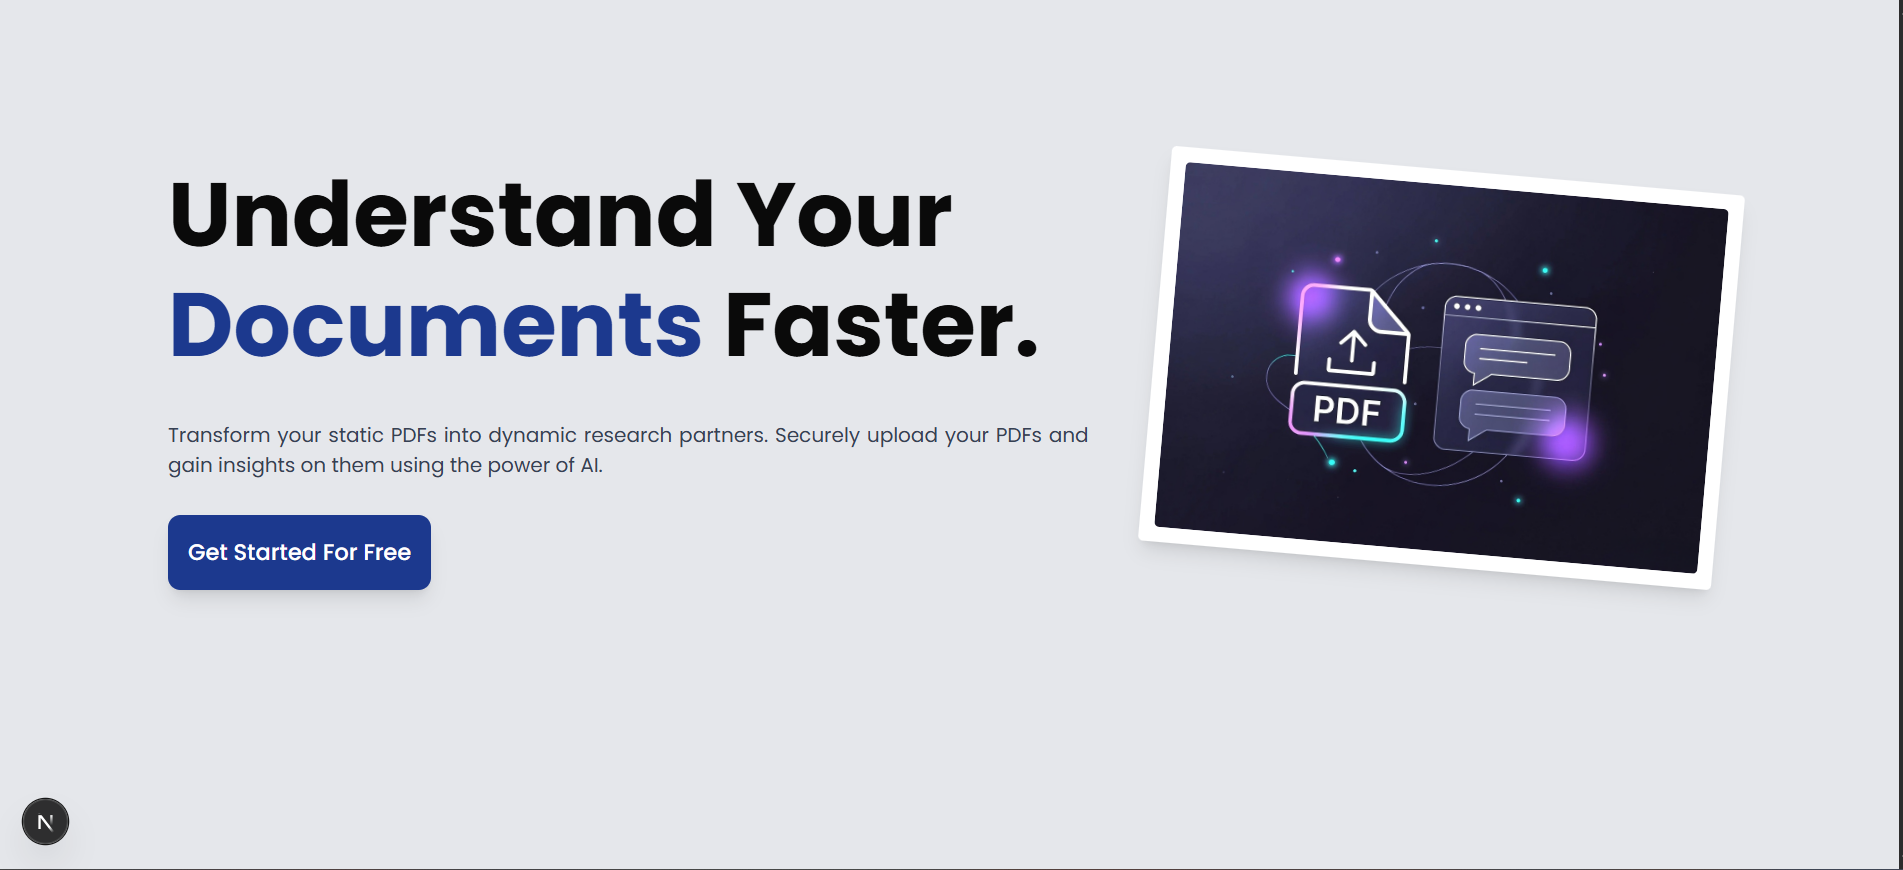
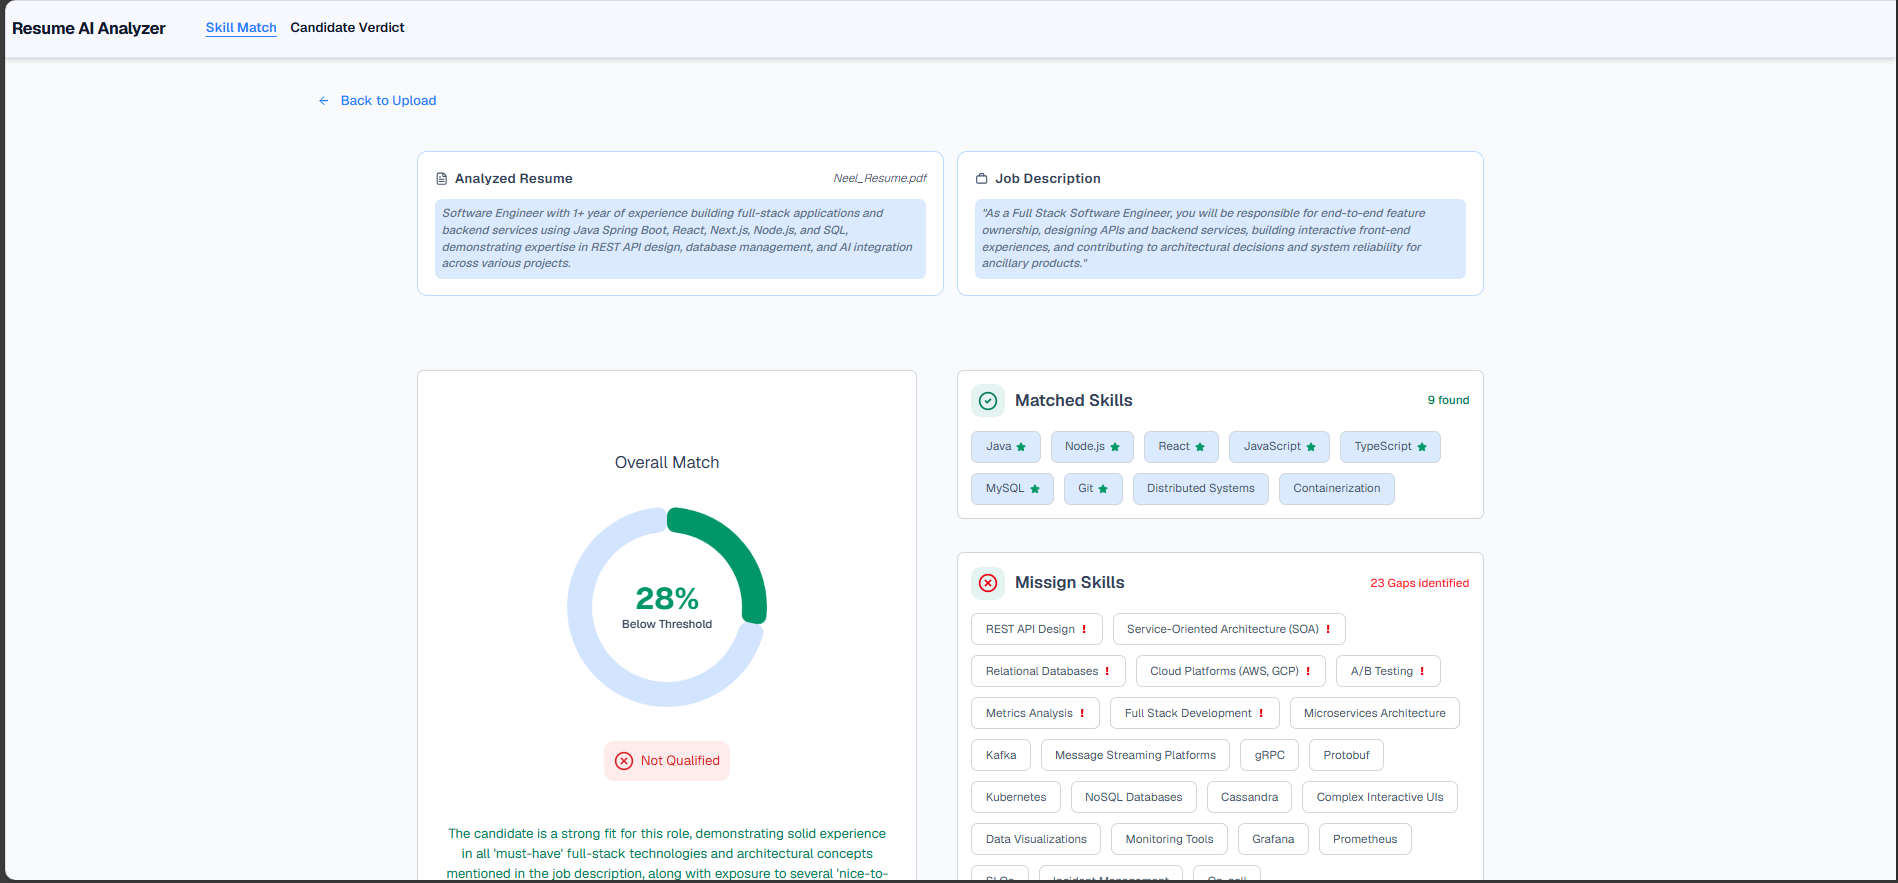
update :memo:

diff --git a/src/data/dataMaps.ts b/src/data/dataMaps.ts
@@ -16,15 +16,15 @@ export const projects = [
   {
     id: 2,
     image: "/images/project2.png",
-    heading: "AI PDF Chat App (RAG-based Document Assistant)",
+    heading: "AI Resume Analyzer (RAG-based Document Assistant)",
     description: [
-      "Built an AI-powered PDF analysis tool enabling users to upload documents and interact via natural language queries.",
-      "Implemented RAG using Gemini embeddings and ChromaDB for fast, context-aware responses.",
-      "Designed a real-time chat interface with typing animation, auto-scroll, and session-based context isolation for multi-user support.",
-      "Optimized performance using batched embedding calls, reducing API overhead and improving response latency.",
-      "Deployed full-stack application using Next.js (Vercel) and FastAPI (Docker on Render) with persistent vector storage."
+      "Built an AI-powered Resume Analyzer that compares resumes against job descriptions using LLM-based skill extraction and semantic matching.",
+      "Implemented an AI evaluation pipeline with PDF parsing, skill normalization, match scoring, and explainable hiring recommendations.",
+      "Designed an interactive dashboard featuring resume/JD upload, skill gap analysis, match percentage visualization, and qualification verdicts.",
+      "Optimized backend processing by normalizing extracted skills and streamlining inference requests, improving analysis consistency and response time.",
+      "Deployed the full-stack application using Next.js frontend and Node.js/Express backend with Gemini API integration for scalable AI-powered evaluations."
     ],
-    url: "https://github.com/Neel-max-cpu/Rag-pdf-reader.git",
+    url: "https://github.com/Neel-max-cpu/Resume-Analyzer.git",
   },
   {
     id: 3,
@@ -123,14 +123,14 @@ export const timeline =[
     icon: "graduation",
   },
   {
-    id:5,
+    id:6,
     date:"2018-2020",
     title:"Darrang College, Tezpur",
     subtitle:"Higer Secondary, 12",
     icon: "school",
   },
   {
-    id:5,
+    id:7,
     date:"2008-2018",
     title:"Don Bosco High School, Tezpur",
     subtitle:"Schooling, 10",

diff --git a/src/components/Hero/Hero.tsx b/src/components/Hero/Hero.tsx
@@ -88,7 +88,7 @@ const Hero = () => {
                             </Button>
                         </a>
                         <a
-                            href="https://drive.google.com/file/d/1zCE5PVVpgb655mUtkXl-8q4h9tCvQrBk/view?usp=sharing"
+                            href="https://drive.google.com/file/d/1UuNmpzp57zapp7gG8HxFsdFHeYNwxS0b/view?usp=sharing"
                             target="_blank"
                             rel="noopener noreferrer"
                         >
